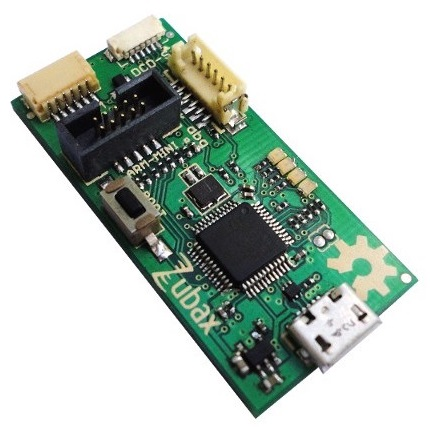
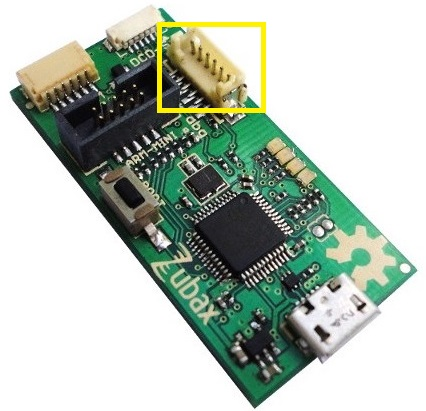
Updates to Pixhawk 1 debug

diff --git a/en/debug/jtag_pins.md b/en/debug/jtag_pins.md
@@ -1,29 +1,33 @@
 # Hardware Debug Interfaces (Debug Port)
 
 PX4 runs on hardware that typically provides at least two interfaces for on-target (hardware) debugging:
-- **ARM Serial Wire Debug (SWD) interface**: This is an ARM-processor alternative to the JTAG interface.
+- **ARM Serial Wire Debug (SWD):** This is an ARM-processor alternative to the JTAG debug port, with lower pin count.
   It is used for debugging firmware, and can also be used to add a new bootloader and/or firmware on a completely empty board (that does not have the USB bootloader installed).
 - **[System Console](../debug/system_console.md) (UART)**: The system console provides low-level access to the system, debug output and analysis of the system boot process (other consoles are available from telemetry/USB etc, but these do not provide such early access to boot sequence information).
 
-On Pixhawk-series boards these interfaces are usually exposed through a single port (though older boards may separate them).
-On other boards, these may be separate.
+On Pixhawk-series boards these interfaces are usually exposed through a single port. (though older boards may separate them).
+On older Pixhawk boards, and on other boards, these may be separate.
 
 > **Tip** Some boards may include additional interfaces.
   For example, Pixhawk FMUv5 will support Google ARM ETM Trace through a separate interface.
   
 This topic explains how to connect the system console, SWD interface, and other interfaces on different boards (actually performing the debugging is then covered in the associated [debugging topics](#debugging_topics)).
 
-## Interface Overview
+## Debug Interface Overview
 
 ### System Console
 
 The PX4 *System Console* is simply a UART that has specifically been configured for this purpose (in NuttX) on a particular board.
 You will need to connect the TX, RX and GND to your computer, either via an FTDI cable (converts UART TX/RX to USB serial), [Dronecode Probe](#dronecode_probe), or similar adapter.
 
-### Serial Wire Debug (SWD) Interface
+### ARM Serial Wire Debug (SWD)
 
-PX4 requires the following pins for SWD.
-The pins should be connected on the corresponding pins of the flight controller board and SWD/JTAG device.
+SWD is a physical interface for JTAG debugging that has low-pin count, and which has been designed for ARM-processors.
+
+SWD is a low pin-count physical interface for JTAG debugging on ARM-processors.
+Not all pins are required, and not all of them are available on all PX4 boards.
+
+SWD/PX4 requires the following pins (these should be connected on the corresponding pins of the flight controller board and SWD/JTAG device).
 
 Pin | Signal Type | Description
 --- | --- | ---
@@ -32,7 +36,7 @@ SWDIO | I/O | Single bi-directional data pin. A pull-up resistor is required. AR
 SWCLK | Output | Clock signal to target CPU. It is recommended that this pin is pulled to a defined state on the target board. Typically connected to TCK of the target CPU.
 GND | - | Ground pin. Should be connected to GND in the target system.
 
-PX4 also supports these pins, if available (e.g. on FMUv5x).
+These pins are also supported on boards where they are present (e.g. on FMUv5x).
 
 Pin | Signal Type | Description
 --- | --- | ---
@@ -42,6 +46,7 @@ TRACECLK | Input | Input trace clock. Trace clock = 1/2 CPU clock.
 TRACEDATA[0] | Input | Input Trace data pin 0 (called TRACED0 in Pixhawk FMUv5x)
 
 >  **Note** The information above is reproduced from [J-Link / J-Trace User Guide: UM08001 > 18.1.2 Pinout for SW Mode](https://www.segger.com/downloads/jlink/UM08001) (Software Version: 6.54).
+  There is additional information about SWD in: [ARM® Debug Interface Architecture Specification: ADIv5.0 to ADIv5.2](https://static.docs.arm.com/ihi0031/d/debug_interface_v5_2_architecture_specification_IHI0031D.pdf)
 
 
 ## Adapters and Wiring {#adapters_and_wiring}
@@ -56,30 +61,29 @@ The following section outlines some of the available adaptors, and the boards yo
 [Dronecode Probe](https://kb.zubax.com/display/MAINKB/Dronecode+Probe+documentation) is a generic JTAG/SWD + UART console adapter compatible with most ARM Cortex based designs and in particular with the hardware maintained by the Dronecode project.
 
 The probe's USB interface exposes two separate virtual serial port interfaces: one for connecting to the System Console (UART) and the other for an embedded GDB server (SWD interface).
-The probe is compliant with the [Pixhawk Connector Standard](https://pixhawk.org/pixhawk-connector-standard/) and provides cabling to connect to the [Pixhawk Debug port](https://pixhawk.org/pixhawk-connector-standard/#dronecode_debug), which is used on many Pixhawk flight controllers.
+The probe provides a DCD-M connector cable for attaching to the [Pixhawk Debug port](https://pixhawk.org/pixhawk-connector-standard/#dronecode_debug) (a 6-pos *JST SM06B*), which is used on many Pixhawk flight controllers.
 
-This can directly be used with:
-- Dronecode connector (6-pos JST SM06B connector to DEBUG port).
+The DCD-M connector can be attached to `DEBUG` port(s) on the following boards:
   - [mRo Pixracer](https://docs.px4.io/master/en/flight_controller/pixracer.html#debug-port-jst-sm06b-connector) (FMUv4)
   - [Drotek Pixhawk v3](https://drotek.gitbook.io/pixhawk-3-pro/hardware/inputs-outputs) (FMUv4pro)
   - [Holybro Pixhawk 4](https://docs.px4.io/master/en/flight_controller/pixhawk4.html#debug-port) (FMUv5)
   - [Holybro Pixhawk 4 mini](https://docs.px4.io/master/en/flight_controller/pixhawk4_mini.html#debug-port) (FMUv5)
-  - [CUAV V5](https://docs.px4.io/master/en/flight_controller/cuav_v5.html#debug-port)
-  
-  
-  - [CUAV V5+](https://docs.px4.io/master/en/flight_controller/cuav_v5_plus.html#debug-port)  [Using JTAG for Hardware debugging](
-  
-  - [CUAV V5 nano]()
+  - [CUAV V5](https://docs.px4.io/master/en/flight_controller/cuav_v5.html#debug-port) (FMUv5)
+  - [CUAV V5+](https://docs.px4.io/master/en/flight_controller/cuav_v5_plus.html#debug-port) (FMUv5)
+  - [CUAV V5 nano](https://docs.px4.io/master/en/flight_controller/cuav_v5_nano.html#debug_port) (FMUv5)
 
-- 6-pos DF13 1:1 cable on the Dronecode probe to the Pixhawk SERIAL4/5 port.
-  **Note** This allows you to debug the System Console only.
+The probe also provides a *6-pos DF13*m which can be attached to the Pixhawk 1 SERIAL4/5 port to debug the System Console (Not SWD).
 
 > **Note** The *Dronecode Probe* is based on the [Black Magic Probe](#black_magic_probe).
   
 ### Black Magic Probe {#black_magic_probe}
 
 The [Black Magic Probe](https://github.com/blacksphere/blackmagic/wiki) offers similar SWD debug-functionality to the [Dronecode probe](#dronecode_probe).
-However this is not designed with Pixhawk standards in mind, so specific custom cabling will be required to interface with the SWD port (and to separately expose the *System Console*).
+However this is not designed with Pixhawk standards in mind, so additional adapters or cabling will be required to interface with the SWD port (and to separately expose the *System Console*).
+
+Black Magic Probe adapters:
+- [Drone Code Debug Adapter](https://1bitsquared.com/products/drone-code-debug-adapter) (1 BIT SQUARED).
+
 
 ### NXP Debug Adapter {#nxp_dapter}
 
@@ -94,7 +98,7 @@ This can directly be used with:
 
 ### Custom Cables
 
-You can also create or build your own cables for the board you want to use (some might have a "Pixkawk debug connector" while others might have special connectors, or just pads.
+You can also create or build your own cables for the board you want to use.
 
 ![Cables](../../assets/debug/just_cables.jpg)
 
@@ -107,7 +111,7 @@ You can also create or build your own cables for the board you want to use (some
 This can be used to load new bootloader/FMU Firmware and perform on-hardware SWD debugging on the FMU, or to access the System Console.
 
 The **DEBUG** has changed and standardised across versions (so no single connector works on all boards)
-- P  [Pixhawk debug port](https://pixhawk.org/pixhawk-connector-standard/#dronecode_debug) (JST SM06B connector).
+- [Pixhawk debug port](https://pixhawk.org/pixhawk-connector-standard/#dronecode_debug) (JST SM06B connector).
 
 > **Note** Many boards may also expose a separate DEBUG port for the IO board.
   This may be used to load a new bootloader or IO firmware.
@@ -183,22 +187,23 @@ If pulled apart the Cube has a 6 pin JST SUR connector (marked as J10) for both 
 
 ## FMUv2
 
-FMUv2-based boards did not have a standardised debug connector.
-Therefore access to the System Console and SWD interface is provided in different ways on different flight controller boards.
+FMUv2-based boards provide separate ports for accessing System Console and SWD interface.
+- The System Console is accessed through the `SERIAL5 pins` (on the `SERIAL4/5` port).
+  You can either use the Dronecode probe or an FTDI cable.
+- The FMU and IO SWD ports (for JTAG debugging) are usually hidden inside the case.
+  - The ports are *ARM 10-Pin JTAG connectors, which have the following pinout (pin 1 is usually indicated by a marker)
+   ![ARM 10-Pin JTAG connector pinout](../../assets/debug/arm_10pin_jtag_connector_pinout.jpg)
+  - The position of the FMU and IO ports depends on the board.
 
 
-### 3DR Pixhawk (1) {#pixhawk1}
+### 3DR Pixhawk 1 {#pixhawk1}
 
-The [3DR Pixhawk 1] exposes the System Console and SWD interface though different ports.
-- The System Console is accessed through the SERIAL5 pins (on port labeled SERIAL4/5).
-  YOu can either use the Dronecode probe or an FTDI cable.
-- The SWD interface is hidden under the cover in the port between TELEM1 and GPS.
-  This can be connected using an ARM 10-pin JTAG connector.
+The [3DR Pixhawk 1](https://docs.px4.io/master/en/flight_controller/pixhawk.html) is accessed as below.
 
 
 #### System Console via Dronecode Probe
 
-Connect the 6-pos DF13 1:1 cable on the [Dronecode probe](https://kb.zubax.com/display/MAINKB/Dronecode+Probe+documentation) to the SERIAL4/5 port of Pixhawk.
+Connect the 6-pos DF13 1:1 cable on the [Dronecode probe](#dronecode_probe) to the SERIAL4/5 port of Pixhawk.
 
 ![Dronecode probe](../../assets/console/dronecode_probe.jpg)
 
@@ -223,7 +228,18 @@ The complete wiring is shown below.
 
 ![Console Debug](../../assets/console/console_debug.jpg)
 
+#### SWD via ARM 10-pin JTAG Connector
 
+The FMU and IO SWD (JTAG) ports are hidden under the cover (which must be removed for hardware debugging).
+
+![Pixhawk SWD](../../assets/debug/pixhawk_swd.jpg)
+
+The ports are ARM 10-pin JTAG connectors, which you will probably have to solder.
+The pinout for the ports is shown below (the square marker in the corner above indicates pin 1).
+
+![ARM 10-Pin connector pinout](../../assets/debug/arm_10pin_jtag_connector_pinout.jpg)
+
+ 
 
 ## Other Boards
 
